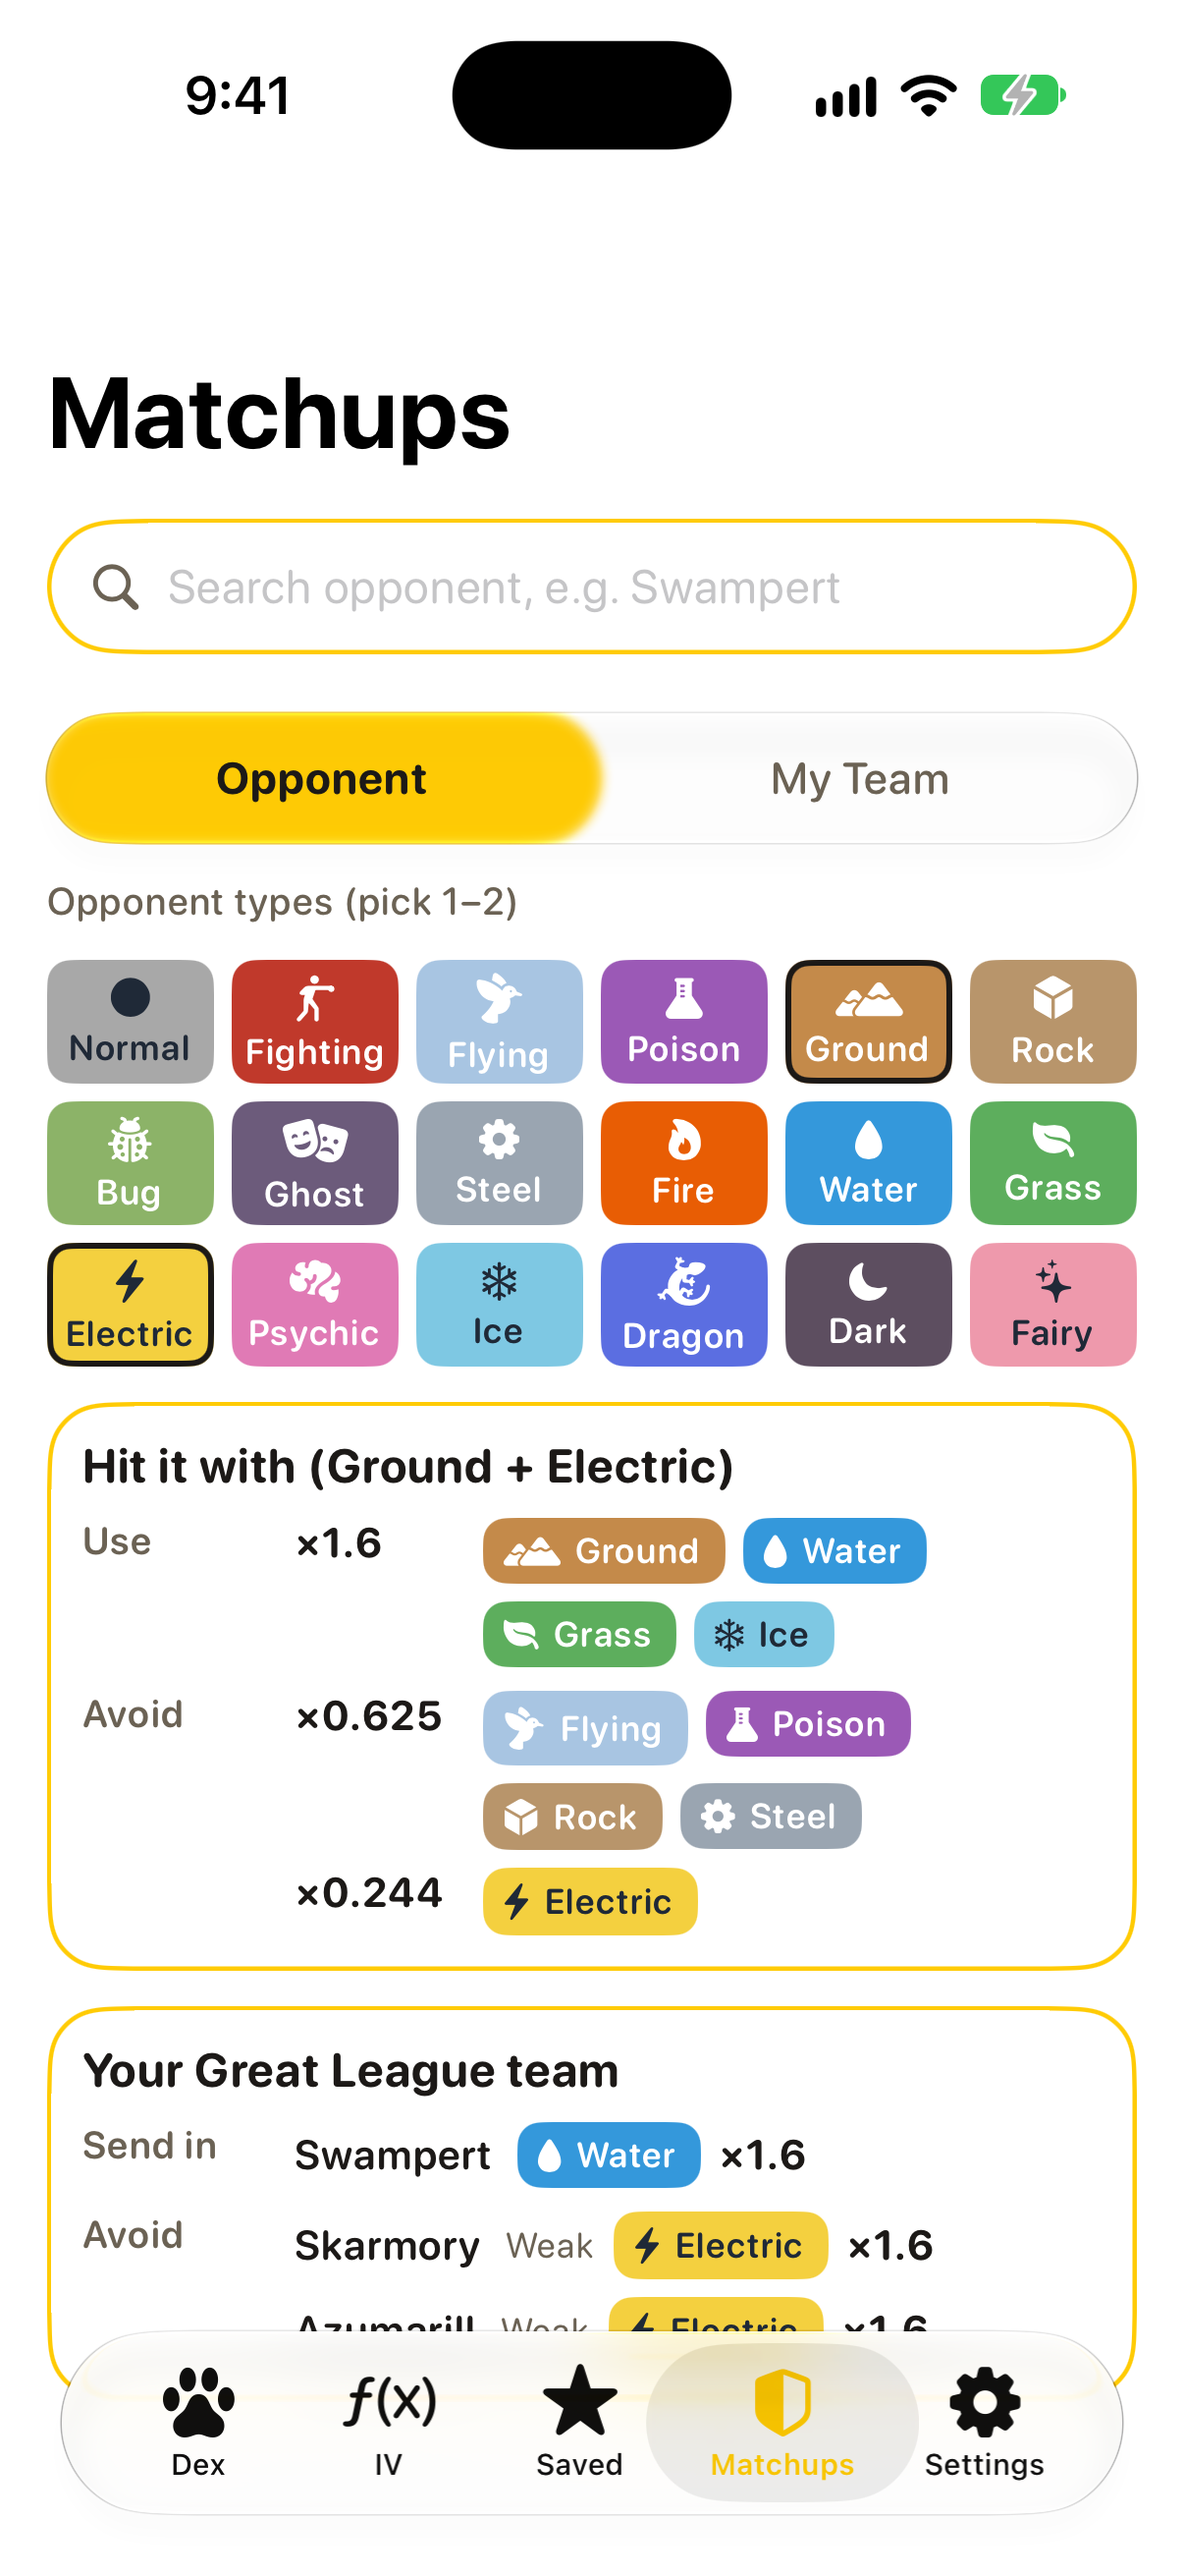
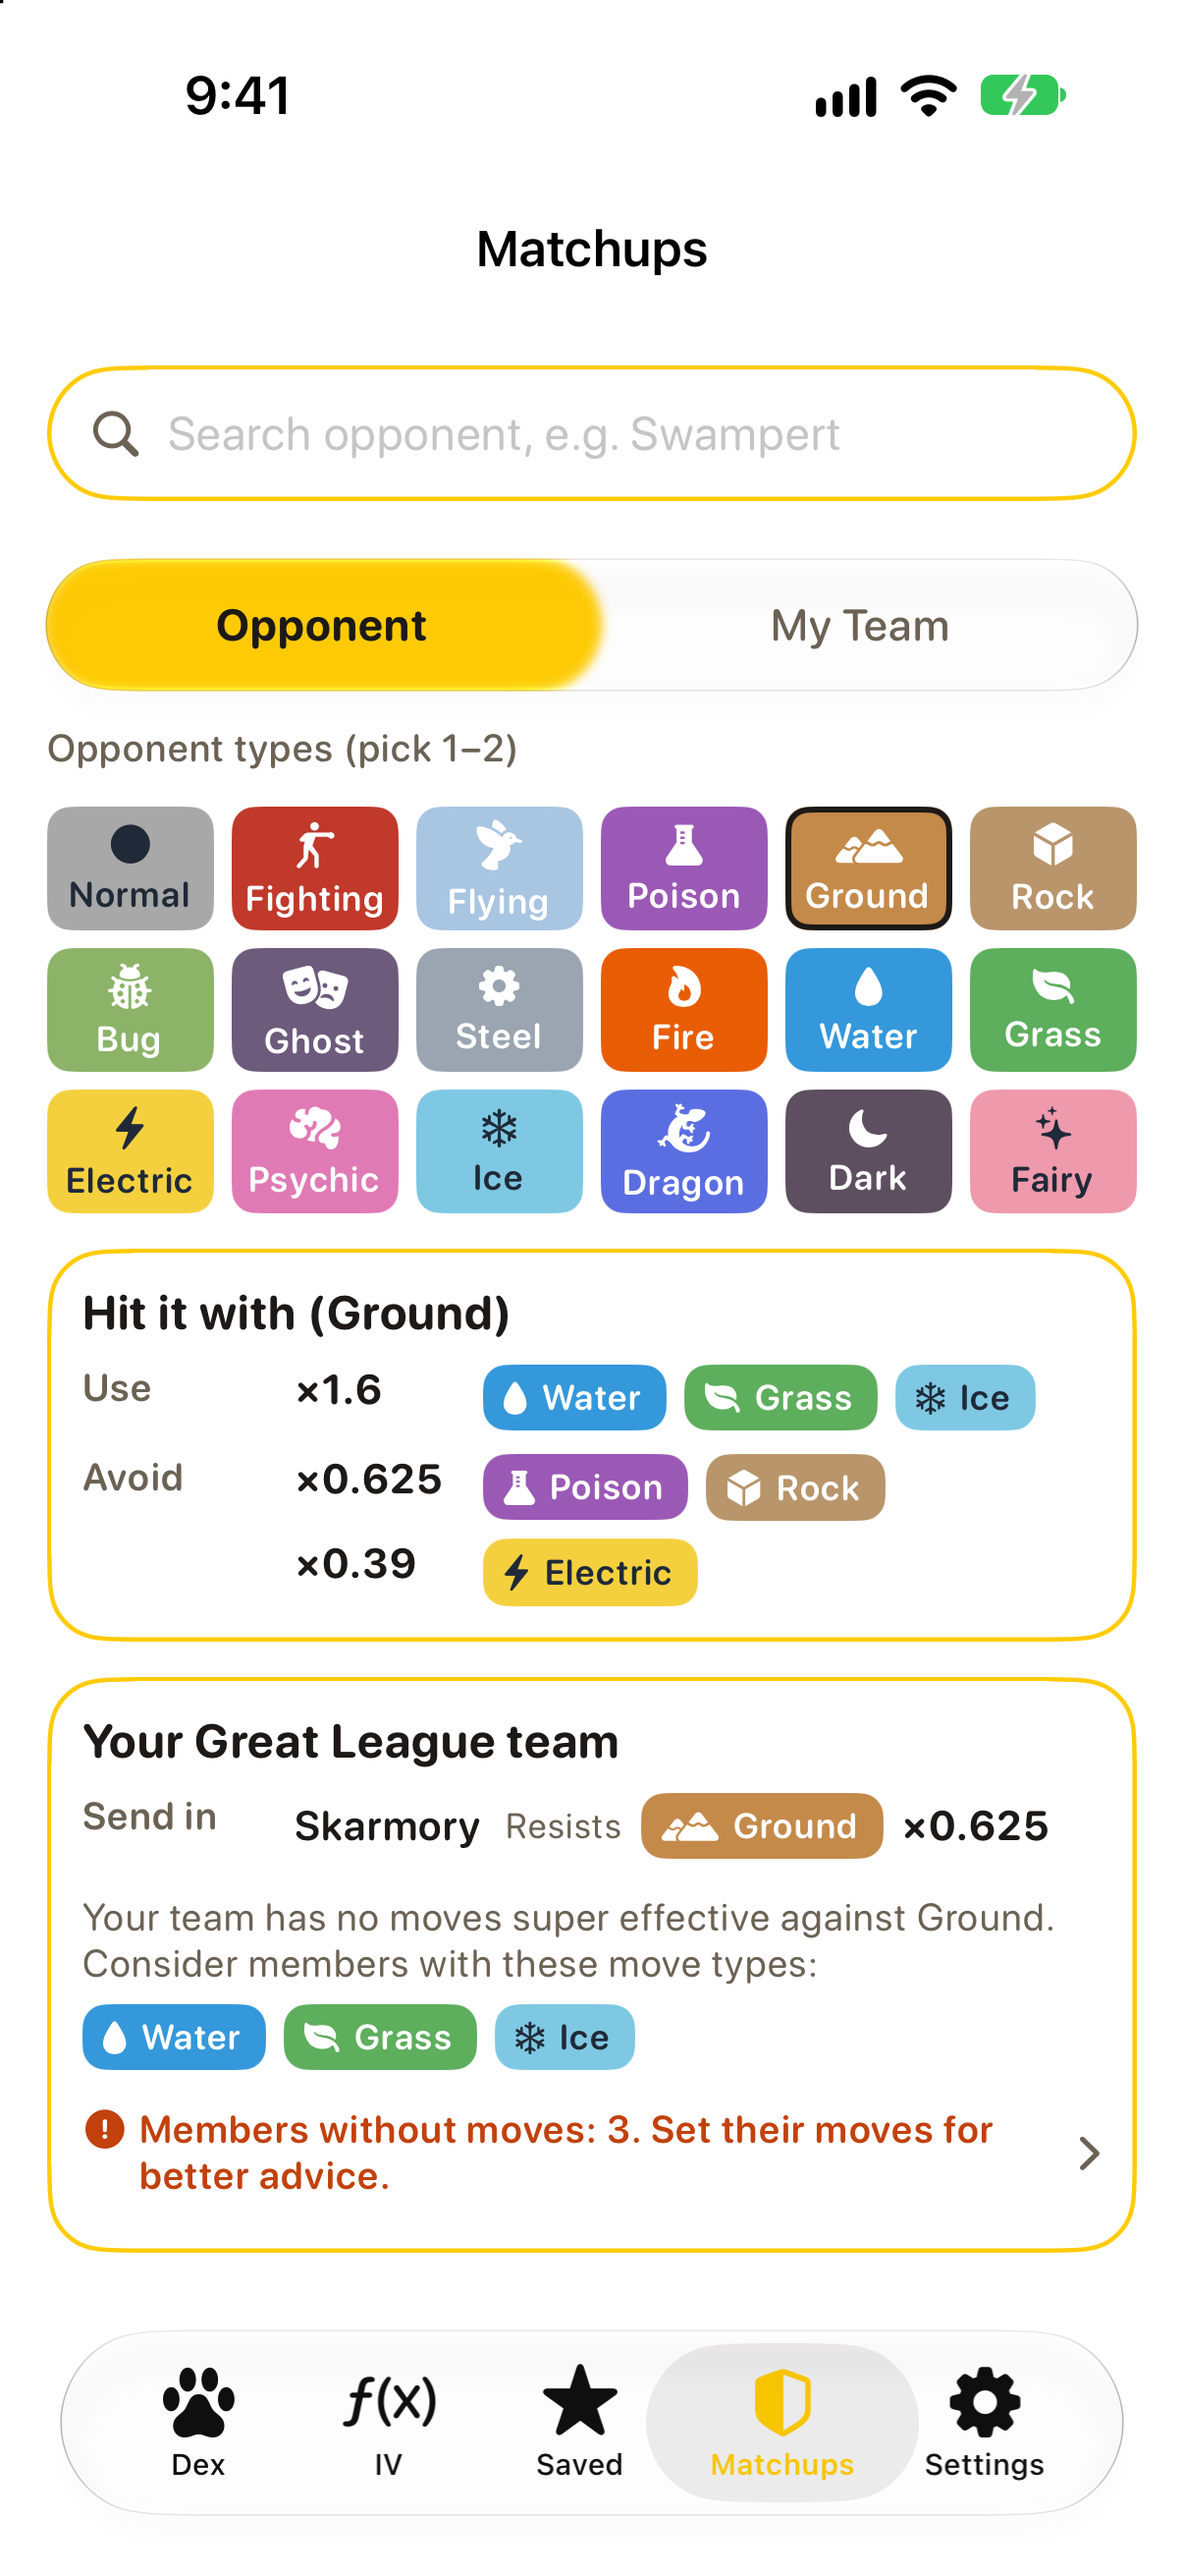
官網配合 1.4.1：相剋出戰建議備案、補招式建議與設定招式入口

diff --git a/index.html b/index.html
@@ -234,15 +234,15 @@
       </figure>
 
       <h3 id="zh-matchup">6. 相剋</h3>
-      <p>點底部「相剋」。「查對手」選對手的 1–2 個屬性，或在上方搜尋名字（也可打英文名或編號），下方會列出該用什麼屬性打（倍率越高越好）、別用哪些屬性。「我的隊伍」每個聯盟存一組 3 隻，卡片列出每隻的弱點、抗性與招式屬性；可在收藏長按、或結果頁 PvP 區塊加入。查對手時，隊伍卡會告訴你該派哪隻（用這隻打）、別派哪隻（別用），並標出被剋或招式被抵抗；會看隊員設定的招式，沒設招式就用隊員自身屬性。</p>
+      <p>點底部「相剋」。「查對手」選對手的 1–2 個屬性，或在上方搜尋名字（也可打英文名或編號），下方會列出該用什麼屬性打（倍率越高越好）、別用哪些屬性。「我的隊伍」每個聯盟存一組 3 隻，卡片列出每隻的弱點、抗性與招式屬性；可在收藏長按、或結果頁 PvP 區塊加入。查對手時，隊伍卡會告訴你該派哪隻（用這隻打）、別派哪隻（別用），並標出被剋或招式被抵抗；會看隊員設定的招式，沒設招式就用隊員自身屬性。隊伍裡沒有能剋對手的隊員時，仍會推薦可以出戰的隊員並說明原因（抵抗對手招式、沒有屬性優勢，或全隊被剋時的相對最好），並建議可以帶哪些屬性的招式；沒有該避開的隊員時不顯示「別用」。沒設招式的隊員會以橘色標示，點卡片的「招　未設定」、編輯清單的那一列，或查對手的提示，就能直接設定招式。</p>
       <div class="manual-shots-row">
         <figure class="manual-shot">
-          <img src="manual/manual-matchup-opponent-zh.png" width="402" height="874" alt="相剋分頁：查對手，選了地面和電">
-          <figcaption>查對手：地面＋電要用地面、水、草、冰打；超級聯盟隊伍派巨沼怪，盔甲鳥與瑪力露麗會被剋。</figcaption>
+          <img src="manual/manual-matchup-opponent-zh.png" width="402" height="874" alt="相剋分頁：查對手，選了地面">
+          <figcaption>查對手：地面要用水、草、冰打；隊伍沒有能剋地面的隊員，推薦抗地面的盔甲鳥，並建議帶水、草、冰屬性的招式。</figcaption>
         </figure>
         <figure class="manual-shot">
           <img src="manual/manual-matchup-team-zh.png" width="402" height="874" alt="相剋分頁：我的隊伍">
-          <figcaption>我的隊伍：每隻的弱點、抗性與招式屬性。</figcaption>
+          <figcaption>我的隊伍：每隻的弱點、抗性與招式屬性；沒設招式的隊員標示「未設定」，點一下就能設定。</figcaption>
         </figure>
       </div>
 
@@ -376,15 +376,15 @@
       </figure>
 
       <h3 id="en-matchup">6. Matchups</h3>
-      <p>Open the Matchups tab. In Opponent, pick one or two of the opponent’s types, or search a name at the top (English name or number also works). Below you see which types hit it hard (higher is better) and which to avoid. In My Team, save a team of three for each league; each card lists weaknesses, resistances, and move types. Add members from a saved entry’s long-press menu or the PvP section of a result. The lookup also tells you which team member to send in and which to avoid, and why (weak to it, or moves resisted). It uses the moves you set for each member, or the member’s own types if none are set.</p>
+      <p>Open the Matchups tab. In Opponent, pick one or two of the opponent’s types, or search a name at the top (English name or number also works). Below you see which types hit it hard (higher is better) and which to avoid. In My Team, save a team of three for each league; each card lists weaknesses, resistances, and move types. Add members from a saved entry’s long-press menu or the PvP section of a result. The lookup also tells you which team member to send in and which to avoid, and why (weak to it, or moves resisted). It uses the moves you set for each member, or the member’s own types if none are set. When no member hits the opponent super effectively, it still suggests who to send in and why (resists its attacks, no type disadvantage, or the best of the rest when the whole team is at a disadvantage), and suggests move types to bring; the Avoid row is hidden when no one needs to be avoided. Members without moves are marked in orange; tap “Moves: Not set” on a card, the member’s row in the editor, or the hint in Opponent to set their moves.</p>
       <div class="manual-shots-row">
         <figure class="manual-shot">
-          <img src="manual/manual-matchup-opponent-en.png" width="402" height="874" alt="Matchups tab: Opponent with Ground and Electric picked">
-          <figcaption>Opponent: hit Ground + Electric with Ground, Water, Grass, or Ice; send in Swampert, and keep Skarmory and Azumarill out.</figcaption>
+          <img src="manual/manual-matchup-opponent-en.png" width="402" height="874" alt="Matchups tab: Opponent with Ground picked">
+          <figcaption>Opponent: hit Ground with Water, Grass, or Ice. No member counters it, so the app suggests Skarmory, which resists Ground, and move types to bring.</figcaption>
         </figure>
         <figure class="manual-shot">
           <img src="manual/manual-matchup-team-en.png" width="402" height="874" alt="Matchups tab: My Team">
-          <figcaption>My Team: weaknesses, resistances, and move types for each member.</figcaption>
+          <figcaption>My Team: weaknesses, resistances, and move types for each member; members without moves show “Not set”, and a tap opens their moves.</figcaption>
         </figure>
       </div>
 
